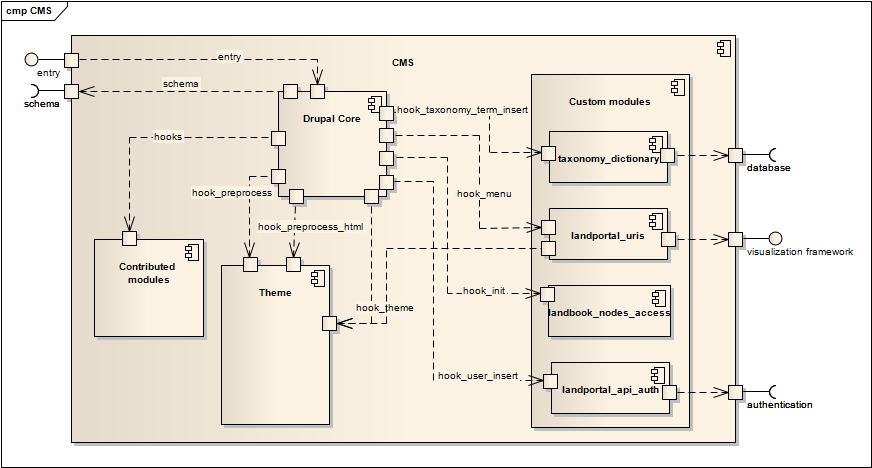
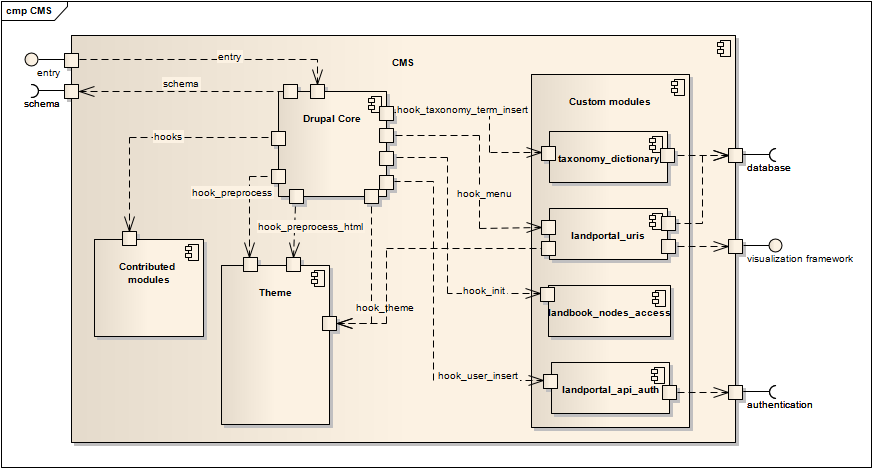
Pequeño detalle en la arquitectura del CMS
Incluida explicación de por que sólo se incluye la vista de un módulo.

Changed region(s): [[0.7431, 0.4487, 0.9908, 0.5684]]

diff --git a/capitulos/capitulo05/arquitectura/cms.tex b/capitulos/capitulo05/arquitectura/cms.tex
@@ -30,7 +30,7 @@ Se describirán ahora los distintos componentes que forman parte del gestor de c
 
 
 \subsubsection{Relación entre los componentes}
-Las peticiones entrantes son procesadas por el núcleo de Drupal.  En cada petición el núcleo de Drupal invoca los módulos que estén suscritos a los \textit{hooks} adecuados para que realicen su funcionalidad:
+Las peticiones entrantes son procesadas por el núcleo de Drupal.  En cada petición el núcleo de Drupal invoca los módulos que estén suscritos a los \textit{hooks} adecuados para que realicen su funcionalidad\footnote{El módulo ``\textit{landportal\_uris}'' será detallado posteriormente en la sección ``\nameref{vista_landportal_uris}'' de éste mismo capítulo.  El resto de módulos propios cuentan simplemente con un único fichero que implementa el \textit{hook} correspondiente por lo que, dada su sencillez, sus vistas se omitirán}:
 \begin{itemize}
 	\item Cuando se crea un nuevo término en la taxonomía se invoca al módulo \textit{taxonomy\_dictionary} para que lo enlace con el término correspondiente en la base de datos.
 	\item Cuando se realiza una petición que no va dirigida a mostrar la vista de administración se invoca al módulo \textit{landportal\_uris} para que provea los datos con los que se renderizarán posteriormente las vistas del tema.  Éste procedimiento será posteriormente detallado en la sección INCLUIR SECCION.
@@ -260,6 +260,8 @@ La tabla \ref{interfaces_cms_landportal_uris} muestra el detalle de las interfac
 		\textbf{hook theme} & Puerto de salida & Llamada a método & Indica al tema que renderice una determinada plantilla para una vista \\
 		\hline
 		\textbf{visualization framework} & Puerto de salida & API Web & Provee datos con los que posteriormente crear las visualizaciones \\
+		\hline
+		\textbf{database} & Puerto de salida & Conexión a base de datos & Obtiene información de la base de datos \\
 	\hline
 	\hline
 \end{longtable}

diff --git a/capitulos/capitulo05/arquitectura_sistema.tex b/capitulos/capitulo05/arquitectura_sistema.tex
@@ -28,5 +28,5 @@ Es importante destacar que ésta sección se centrará en el subsistema de datos
 \label{vista_modulos_cms}
 \input{capitulos/capitulo05/arquitectura/cms}
 
-\subsection{Vista del módulo \textit{landportal uris}''}
+\subsection{Vista del módulo \textit{landportal uris}}
 \label{vista_landportal_uris}
